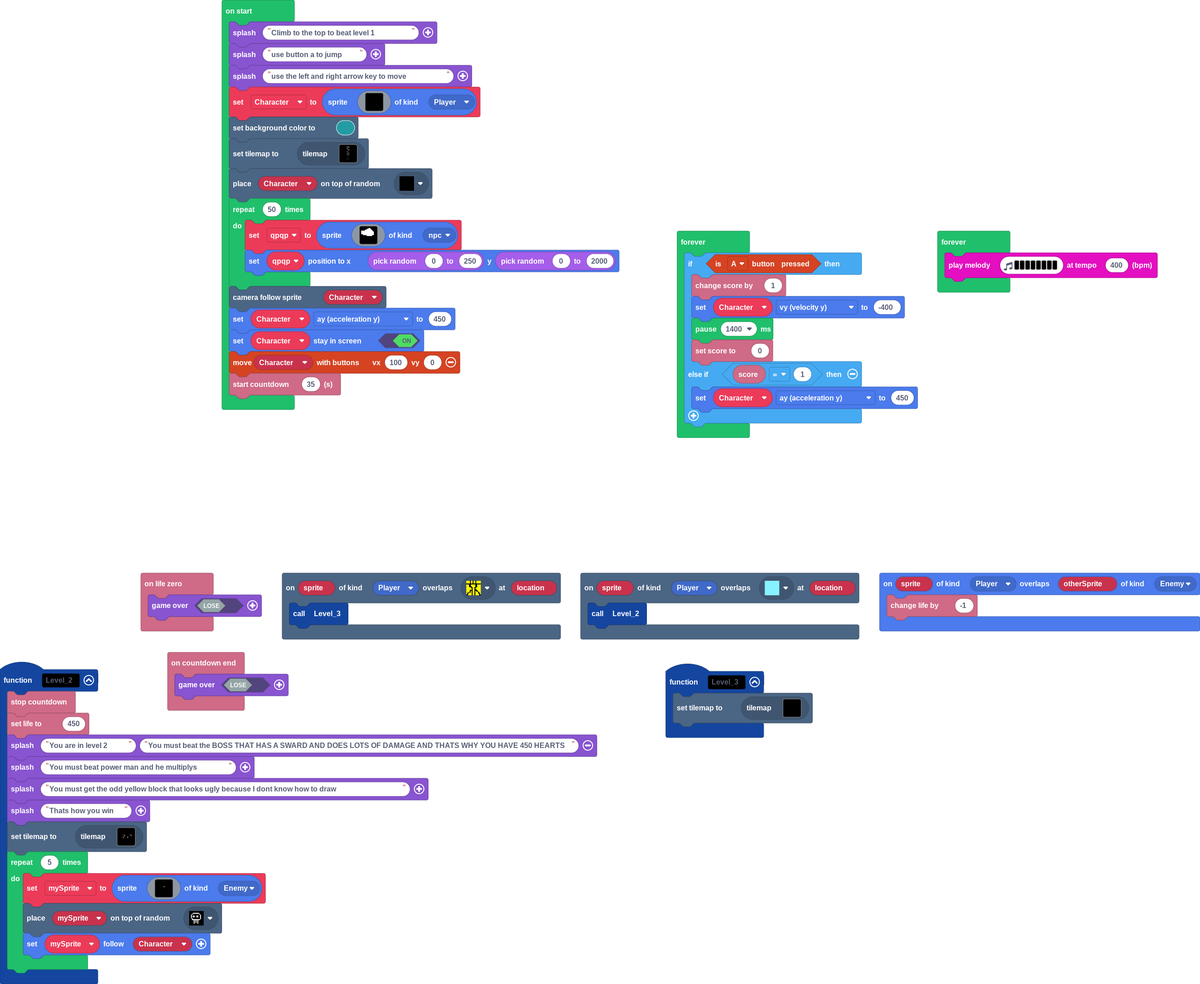
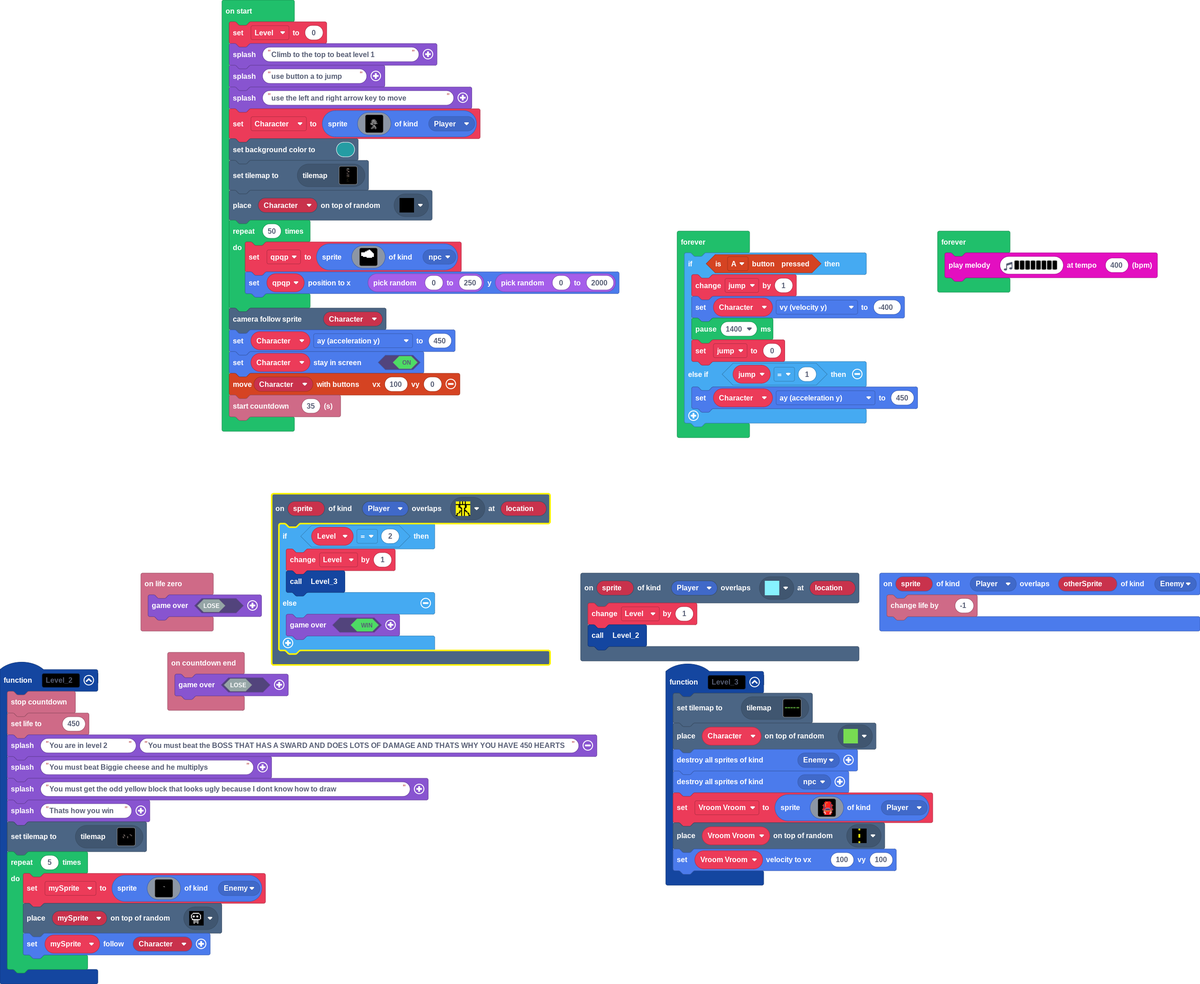
Update main.blocks, main.ts, tilemap.g.jres, tilemap.g.ts

diff --git a/tilemap.g.ts b/tilemap.g.ts
@@ -11,13 +11,15 @@ namespace myTiles {
     //% fixedInstance jres blockIdentity=images._tile
     export const tile4 = image.ofBuffer(hex``);
     //% fixedInstance jres blockIdentity=images._tile
-    export const tile5 = image.ofBuffer(hex``);
-    //% fixedInstance jres blockIdentity=images._tile
     export const tile6 = image.ofBuffer(hex``);
     //% fixedInstance jres blockIdentity=images._tile
     export const tile7 = image.ofBuffer(hex``);
     //% fixedInstance jres blockIdentity=images._tile
     export const tile8 = image.ofBuffer(hex``);
+    //% fixedInstance jres blockIdentity=images._tile
+    export const tile5 = image.ofBuffer(hex``);
+    //% fixedInstance jres blockIdentity=images._tile
+    export const tile9 = image.ofBuffer(hex``);
 
     helpers._registerFactory("tilemap", function(name: string) {
         switch(helpers.stringTrim(name)) {
@@ -258,58 +260,15 @@ namespace myTiles {
 ..222222222222222222222222222222222222222222222222
 `, [myTiles.transparency16,myTiles.tile2,myTiles.tile3,myTiles.tile6,myTiles.tile7], TileScale.Sixteen);
             case "level9":
-            case "level9":return tiles.createTilemap(hex`96003200000000000000000000000000000000000000000000000000000000000000000000000000000000000000000000000000000000000000000000000000000000000000000000000000000000000000000000000000000000000000000000000000000000000000000000000000000000000000000000000000000000000000000000000000000000000000000000000000000000000000000000000000000000000000000000000000000000000000000000000000000000000000000000000000000000000000000000000000000000000000000000000000000000000000000000000000000000000000000000000000000000000000000000000000000000000000000000000000000000000000000000000000000000000000000000000000000000000000000000000000000000000000000000000000000000000000000000000000000000000000000000000000000000000000000000000000000000000000000000000000000000000000000000000000000000000000000000000000000000000000000000000000000000000000000000000000000000000000000000000000000000000000000000000000000000000000000000000000000000000000000000000000000000000000000000000000000000000000000000000000000000000000000000000000000000000000000000000000000000000000000000000000000000000000000000000000000000000000000000000000000000000000000000000000000000000000000000000000000000000000000000000000000000000000000000000000000000000000000000000000000000000000000000000000000000000000000000000000000000000000000000000000000000000000000000000000000000000000000000000000000000000000000000000000000000000000000000000000000000000000000000000000000000000000000000000000000000000000000000000000000000000000000000000000000000000000000000000000000000000000000000000000000000000000000000000000000000000000000000000000000000000000000000000000000000000000000000000000000000000000000000000000000000000000000000000000000000000000000000000000000000000000000000000000000000000000000000000000000000000000000000000000000000000000000000000000000000000000000000000000000000000000000000000000000000000000000000000000000000000000000000000000000000000000000000000000000000000000000000000000000000000000000000000000000000000000000000000000000000000000000000000000000000000000000000000000000000000000000000000000000000000000000000000000000000000000000000000000000000000000000000000000000000000000000000000000000000000000000000000000000000000000000000000000000000000000000000000000000000000000000000000000000000000000000000000000000000000000000000000000000000000000000000000000000000000000000000000000000000000000000000000000000000000000000000000000000000000000000000000000000000000000000000000000000000000000000000000000000000000000000000000000000000000000000000000000000000000000000000000000000000000000000000000000000000000000000000000000000000000000000000000000000000000000000000000000000000000000000000000000000000000000000000000000000000000000000000000000000000000000000000000000000000000000000000000000000000000000000000000000000000000000000000000000000000000000000000000000000000000000000000000000000000000000000000000000000000000000000000000000000000000000000000000000000000000000000000000000000000000000000000000000000000000000000000000000000000000000000000000000000000000000000000000000000000000000000000000000000000000000000000000000000000000000000000000000000000000000000000000000000000000000000000000000000000000000000000000000000000000000000000000000000000000000000000000000000000000000000000000000000000000000000000000000000000000000000000000000000000000000000000000000000000000000000000000000000000000000000000000000000000000000000000000000000000000000000000000000000000000000000000000000000000000000000000000000000000000000000000000000000000000000000000000000000000000000000000000000000000000000000000000000000000000000000000000000000000000000000000000000000000000000000000000000000000000000000000000000000000000000000000000000000000000000000000000000000000000000000000000000000000000000000000000000000000000000000000000000000000000000000000000000000000000000000000000000000000000000000000000000000000000000000000000000000000000000000000000000000000000000000000000000000000000000000000000000000000000000000000000000000000000000000000000000000000000000000000000000000000000000000000000000000000000000000000000000000000000000000000000000000000000000000000000000000000000000000000000000000000000000000000000000000000000000000000000000000000000000000000000000000000000000000000000000000000000000000000000000000000000000000000000000000000000000000000000000000000000000000000000000000000000000000000000000000000000000000000000000000000000000000000000000000000000000000000000000000000000000000000000000000000000000000000000000000000000000000000000000000000000000000000000000000000000000000000000000000000000000000000000000000000000000000000000000000000000000000000000000000000000000000000000000000000000000000000000000000000000000000000000000000000000000000000000000000000000000000000000000000000000000000000000000000000000000000000000000000000000000000000000000000000000000000000000000000000000000000000000000000000000000000000000000000000000000000000000000000000000000000000000000000000000000000000000000000000000000000000000000000000000000000000000000000000000000000000000000000000000000000000000000000000000000000000000000000000000000000000000000000000000000000000000000000000000000000000000000000000000000000000000000000000000000000000000000000000000000000000000000000000000000000000000000000000000000000000000000000000000000000000000000000000000000000000000000000000000000000000000000000000000000000000000000000000000000000000000000000000000000000000000000000000000000000000000000000000000000000000000000000000000000000000000000000000000000000000000000000000000000000000000000000000000000000000000000000000000000000000000000000000000000000000000000000000000000000000000000000000000000000000000000000000000000000000000000000000000000000000000000000000000000000000000000000000000000000000000000000000000000000000000000000000000000000000000000000000000000000000000000000000000000000000000000000000000000000000000000000000000000000000000000000000000000000000000000000000000000000000000000000000000000000000000000000000000000000000000000000000000000000000000000000000000000000000000000000000000000000000000000000000000000000000000000000000000000000000000000000000000000000000000000000000000000000000000000000000000000000000000000000000000000000000000000000000000000000000000000000000000000000000000000000000000000000000000000000000000000000000000000000000000000000000000000000000000000000000000000000000000000000000000000000000000000000000000000000000000000000000000000000000000000000000000000000000000000000000000000000000000000000000000000000000000000000000000000000000000000000000000000000000000000000000000000000000000000000000000000000000000000000000000000000000000000000000000000000000000000000000000000000000000000000000000000000000000000000000000000000000000000000000000000000000000000000000000000000000000000000000000000000000000000000000000000000000000000000000000000000000000000000000000000000000000000000000000000000000000000000000000000000000000000000000000000000000000000000000000000000000000000000000000000000000000000000000000000000000000000000000000000000000000000000000000000000000000000000000000000000000000000000000000000000000000000000000000000000000000000000000000000000000000000000000000000000000000000000000000000000000000000000000000000000000000000000000000000000000000000000000000000000000000000000000000000000000000000000000000000000000000000000000000000000000000000000000000000000000000000000000000000000000000000000000000000000000000000000000000000000000000000000000000000000000000000000000000000000000000000000000000000000000000000000000000000000000000000000000000000000000000000000000000000000000000000000000000000000000000000000000000000000000000000000000000000000000000000000000000000000000000000000000000000000000000000000000000000000000000000000000000000000000000000000000000000000000000000000000000000000000000000000000000000000000000000000000000000000000000000000000000000000000000000000000000000000000000000000000000000000000000000000000000000000000000000000000000000000000000000000000000000000000000000000000000000000000000000000000000000000000000000000000000000000000000000000000000000000000000000000000000000000000000000000000000000000000000000000000000000000000000000000000000000000000000000000000000000000000000000000000000000000000000000000000000000000000000000000000000000000000000000000000000000000000000000000000000000000000000000000000000000000000000000000000000000000000000000000000000000000000000000000000000000000000000000000000000000000000000000000000000000000000000000000000000000000000000000000000000000000000000000000000000000000000000000000000000000000000000000000000000000000000000000000000000000000000000000000000000000000000000000000000000000000000000000000000000000000000000000000000000000000000000000000000000000000000000000000000000000000000000000000000000000000000000000000000000000000000000000000000000000000000000000000000000000000000000000000000000000000000000000000000000000000000000000000000000000000000000000000000000000000000000000000000000000000000000000000000000000000000000000000000000000000000000000000000000000000000000000000000000000000000000000000000000000000000000000000000000000000000000000000000000000000000000000000000000000000000000000000000000000000000000000000000000000000000000000000000000000000000000000000000000000000000000000000000000000000000000000000000000000000000000000000000000000000000000000000000000000000000000000000000000000000000000000000000000000000000000000000000000000000000000000000000000000000000000000000000000000000000000000000000000000000000000000000000000000000000000000000000000000000000000000000000000000000000000000000000000000000000000000000000000000000000000000000000000000000000000000000000000000000000000000000000000000000000000000000000000000000000000000000000000000000000000000000000000000000000000000000000000000000000000000000000000000000000000000000000000000000000000000000000000000000000000000000000000000000000000000000000000000000000000000000000000000000000000000000000000000000000000000000000000000000000000000000000000000000000000000000000000000000000000000000000000000000000000000000000000000000000000000000000000000000000000000000000000000000000000000000000000000000000000000000000000000000000000000000000000000000000000000000000000000000000000000000000000000000000000000000000000000000000000000000000000000000000000000000000000000000000000000000000000000000000000000000000000000000000000000000000000000000000000000000000000000000000000000000000000000000000000000000000000000000000000000000000000000000000000000000000000000000000000000000000000000000000000000000000000000000000000000000000000000000000000000000000000000000000000000000000000000000000000000000000000000000000000000000000000000000000000000000000000000000000000000000000000000000000000000000000000000000000000000000000000000000000000000000000000000000000000000000000000000000000000000000000000000000000000000000000000000000000000000000000000000000000000000000000000000000000000000000000000000000000000000000000000000000000000000000000000000000000000000000000000000000000000000000000000000000000000000000000000000000000000000000000000000000000000000000000000000000000000000000000000000000000000000000000000000000000000000000000000000000000000000000000000000000000000000000000000000000000000000000000000000000000000000000000000000000000000000000000000000000000000000000000000000000000000000000000000000000000000000000000000000000000000000000000000000000000000000000000000000000000000000000000000000000000000000000000000000000000000000000000000000000000000000000000000000000000000000000000000000000000000000000000000000000000000000000000000000000000000000000000000000000000000000000000000000000000000000000000000000000000000000000000000000000000000000000000000000000000000000000000000000000000000000000000000000000000000000000000000000000000000000000000000000000000000000000000000000000000000000000000000000000000000000000000000000000000000000000000000000000000000000000000000000000000000000000000000000000000000000000000000000000000000000000000000000000000000000000000000000000000000000000000000000000000000000000000000000000000000000000000000000000000000000000000000000000000000000000000000000000000000000000000000000000000000000000000000000000000000000000000000000000000000000000000000000000000000000000000000000000000000000000000000000000000000000000000000000000000000000000000000000000000000000000000000000000000000000000000000000000000000000000000000000000000000000000000000000000000000000000000000000000000000000000000000000000000000000000000000000000000000000000000000000000000000000000000000000000000000000000000000000000000000000000000000000000000000000000000000000000000000000000000000000000000000000000000000000000000000000000000000000000000000000000000000000000000000000000000000000000000000000000000000000000000000000000000000000000000000000000000000000000000000000000000000000000000000000000000000000000000000000000000000000000000000000000000000000000000000000000000000000000000000000000000000000000000000000000000000000000000000000000000000000000000000000000000000000000000000000000000000000000000000000000000000000000000000000000000000000000000000000000000000000000000000000000000000000000000000000000000000000000000000000000000000000000000000000000000000000000000000000000000000000000000000000000000000000000000000000000000000000000000000000000000000000000000000000000000000000000000000000000000000000000000000000000000000000000000000000000000000000000000000000000000000000000000000000000000000000000000000000000000000000000000000000000000000000000000000000000000000000000000000000000000000000000000000000000000000000000000000000000000000000000000000000000000000000000000000000000000000000000000000000000000000000000000000000000000000000000000000000000000000000000000000000000000000000000000000000000000000000000000000000000000000000000000000000000000000000000000000000000000000000000000000000000000000000000000000000000000000000000000000000000000000000000000000000000000000000000000000000000000000000000000000000000000000000000000000000000000000000000000000000000000000000000000000000000000000000000000000000000000000000000000000000000000000000000000000000000000000000000000000000000000000000000000000000000000000000000000000000000000000000000000000000000000000000000000000000000000000000000000000000000000000000000000000000000000000000000000000000000000000000000000000000000000000000000000000000000000000000000000000000000000000000000000000000000000000000000000000000000000000000000000000000000000000000000000000000000000000000000000000000000000000000000000000000000000000000000000000000000000000000000000000000000000000000000000000000000000000000000000000000000000000000000000000000000000000000000000000000000000000000000000000000000000000000000000000000000000000000000000000000000000000000000000000000000000000000000000000000000000000000000000000000000000000000000000000000000000000000000000000000000000000000000000000000000000000000000000000000000000000000000000000000000000000000000000000000000000000000000000000000000000000000000000000000000000000000`, img`
-......................................................................................................................................................
-......................................................................................................................................................
-......................................................................................................................................................
-......................................................................................................................................................
-......................................................................................................................................................
-......................................................................................................................................................
-......................................................................................................................................................
-......................................................................................................................................................
-......................................................................................................................................................
-......................................................................................................................................................
-......................................................................................................................................................
-......................................................................................................................................................
-......................................................................................................................................................
-......................................................................................................................................................
-......................................................................................................................................................
-......................................................................................................................................................
-......................................................................................................................................................
-......................................................................................................................................................
-......................................................................................................................................................
-......................................................................................................................................................
-......................................................................................................................................................
-......................................................................................................................................................
-......................................................................................................................................................
-......................................................................................................................................................
-......................................................................................................................................................
-......................................................................................................................................................
-......................................................................................................................................................
-......................................................................................................................................................
-......................................................................................................................................................
-......................................................................................................................................................
-......................................................................................................................................................
-......................................................................................................................................................
-......................................................................................................................................................
-......................................................................................................................................................
-......................................................................................................................................................
-......................................................................................................................................................
-......................................................................................................................................................
-......................................................................................................................................................
-......................................................................................................................................................
-......................................................................................................................................................
-......................................................................................................................................................
-......................................................................................................................................................
-......................................................................................................................................................
-......................................................................................................................................................
-......................................................................................................................................................
-......................................................................................................................................................
-......................................................................................................................................................
-......................................................................................................................................................
-......................................................................................................................................................
-......................................................................................................................................................
-`, [myTiles.transparency16], TileScale.Sixteen);
+            case "level9":return tiles.createTilemap(hex`6400070003010101010101010101010101010101010102020201010101010101010101010101010101020202020101010101010101010101010101020202020101010101010101010101010101010202020202020201010101010101010101010101010101010404030101010101010101010101010101010101020202010101010101010101010101010101010202020201010101010101010101010101010202020201010101010101010101010101010102020202020202010101010101010101010101010101010104040301010101010101010101010101010101010202020101010101010101010101010101010102020202010101010101010101010101010102020202010101010101010101010101010101020202020202020101010101010101010101010101010101040403010101010101010101010101010101010102020201010101010101010101010101010101020202020101010101010101010101010101020202020101010101010101010101010101010202020202020201010101010101010101010101010101010404030101010101010101010101010101010101020202010101010101010101010101010101010202020201010101010101010101010101010202020201010101010101010101010101010102020202020202010101010101010101010101010101010104040301010101010101010101010101010101010202020101010101010101010101010101010102020202010101010101010101010101010102020202010101010101010101010101010101020202020202020101010101010101010101010101010101040403010101010101010101010101010101010102020201010101010101010101010101010101020202020101010101010101010101010101020202020101010101010101010101010101010202020202020201010101010101010101010101010101010404`, img`
+....................................................................................................
+....................................................................................................
+....................................................................................................
+....................................................................................................
+....................................................................................................
+....................................................................................................
+....................................................................................................
+`, [myTiles.transparency16,myTiles.tile5,myTiles.tile8,myTiles.tile9,myTiles.tile6], TileScale.Sixteen);
         }
         return null;
     })
@@ -325,14 +284,16 @@ namespace myTiles {
             case "tile3":return tile3;
             case "myTile2":
             case "tile4":return tile4;
-            case "myTile3":
-            case "tile5":return tile5;
             case "myTile4":
             case "tile6":return tile6;
             case "myTile5":
             case "tile7":return tile7;
             case "myTile6":
             case "tile8":return tile8;
+            case "myTile3":
+            case "tile5":return tile5;
+            case "myTile7":
+            case "tile9":return tile9;
         }
         return null;
     })

diff --git a/main.ts b/main.ts
@@ -2,12 +2,18 @@ namespace SpriteKind {
     export const npc = SpriteKind.create()
 }
 scene.onOverlapTile(SpriteKind.Player, assets.tile`myTile4`, function (sprite, location) {
-    Level_3()
+    if (Level == 2) {
+        Level += 1
+        Level_3()
+    } else {
+        game.over(true)
+    }
 })
 info.onCountdownEnd(function () {
     game.over(false)
 })
 scene.onOverlapTile(SpriteKind.Player, assets.tile`myTile2`, function (sprite, location) {
+    Level += 1
     Level_2()
 })
 info.onLifeZero(function () {
@@ -15,12 +21,35 @@ info.onLifeZero(function () {
 })
 function Level_3 () {
     tiles.setCurrentTilemap(tilemap`level9`)
+    tiles.placeOnRandomTile(Character, assets.tile`myTile7`)
+    sprites.destroyAllSpritesOfKind(SpriteKind.Enemy)
+    sprites.destroyAllSpritesOfKind(SpriteKind.npc)
+    Vroom_Vroom = sprites.create(img`
+        . . . . . . . . . . . . . . . . 
+        . . . . . . 2 2 2 2 2 2 . . . . 
+        . . . . . 2 2 4 4 2 2 2 2 . . . 
+        . . . . . c 4 2 2 2 2 2 c . . . 
+        . . . . 2 c 4 2 2 2 2 2 c 2 . . 
+        . . . e 2 c 4 2 2 2 2 2 c 2 e . 
+        . . . f 2 c 4 2 2 2 2 2 c 2 f . 
+        . . . f e c 2 2 2 2 2 2 c e f . 
+        . . . f 2 c 2 b b b b 2 c 2 f . 
+        . . . e 2 2 b c c c c b 2 2 e . 
+        . . . e e b c c c c c c b e e . 
+        . . . f e 4 4 4 4 4 4 4 4 e f . 
+        . . . f e d 2 2 2 2 2 2 d e f . 
+        . . . . 2 d d 2 2 2 2 d d 2 f . 
+        . . . . f 2 d 2 2 2 2 d 2 f . . 
+        . . . . . e 2 2 2 2 2 2 e . . . 
+        `, SpriteKind.Player)
+    tiles.placeOnRandomTile(Vroom_Vroom, assets.tile`myTile6`)
+    Vroom_Vroom.setVelocity(100, 100)
 }
 function Level_2 () {
     info.stopCountdown()
     info.setLife(450)
     game.splash("You are in level 2", "You must beat the BOSS THAT HAS A SWARD AND DOES LOTS OF DAMAGE AND THATS WHY YOU HAVE 450 HEARTS")
-    game.splash("You must beat power man and he multiplys ")
+    game.splash("You must beat Biggie cheese and he multiplys ")
     game.splash("You must get the odd yellow block that looks ugly because I dont know how to draw")
     game.splash("Thats how you win")
     tiles.setCurrentTilemap(tilemap`level6`)
@@ -64,9 +93,13 @@ function Level_2 () {
 sprites.onOverlap(SpriteKind.Player, SpriteKind.Enemy, function (sprite, otherSprite) {
     info.changeLifeBy(-1)
 })
+let jump = 0
 let mySprite: Sprite = null
+let Vroom_Vroom: Sprite = null
 let qpqp: Sprite = null
 let Character: Sprite = null
+let Level = 0
+Level = 0
 game.splash("Climb to the top to beat level 1")
 game.splash("use button a to jump")
 game.splash("use the left and right arrow key to move")
@@ -79,32 +112,32 @@ Character = sprites.create(img`
     ........................................
     ........................................
     ........................................
-    ........................................
-    .................ffff...................
-    ...............fff..ff..................
-    ...............f.....ff.................
-    ..............fff...f.f.................
-    ..............f........f................
-    ..............f.fffff..ff...............
-    ..............f.........f...............
-    ..............fffffffffff...............
-    ........................................
-    ...................f......ff............
-    ...........f.......f......ff............
-    ...........fff....fff....fff............
-    .............fffffffffffff..............
-    ..................fff...................
-    ..................fff...................
-    ..................fff...................
-    ...................f....................
-    ...................f....................
-    ...................f....................
-    ...............fffffff..................
-    ..............ffff..fff.................
-    ..............fff...ffff................
-    ..............ff.....fff................
-    .............ff.......fff...............
-    ........................................
+    .................1111...................
+    ..............111ffff11.................
+    ..............1fff11ff1.................
+    .............11f11111f1.................
+    .............1ff1f11f1f11...............
+    .............1f1111111ff11..............
+    .............1f1fffff11ff1..............
+    .............1f111111111f1..............
+    .............11fffffffff11..............
+    ..............11111f1111................
+    ..........11......1f1.....11............
+    ..........1f111...1f111111f1............
+    ..........1f111111fff1111ff1............
+    ..........11ffffffffffffff..............
+    ............111111fff1..................
+    .................1fff1..................
+    .................1fff1..................
+    .................11f11..................
+    .................11f11..................
+    ................111f11..................
+    ...............1fffff111................
+    ..............11ff11ff111...............
+    .............11ff1..1ff11...............
+    .............1ff11..1fff1...............
+    ...........1ffff1....1fff1..............
+    ............111.......111...............
     ........................................
     ........................................
     ........................................
@@ -143,11 +176,11 @@ controller.moveSprite(Character, 100, 0)
 info.startCountdown(35)
 forever(function () {
     if (controller.A.isPressed()) {
-        info.changeScoreBy(1)
+        jump += 1
         Character.vy = -400
         pause(1400)
-        info.setScore(0)
-    } else if (info.score() == 1) {
+        jump = 0
+    } else if (jump == 1) {
         Character.ay = 450
     }
 })
